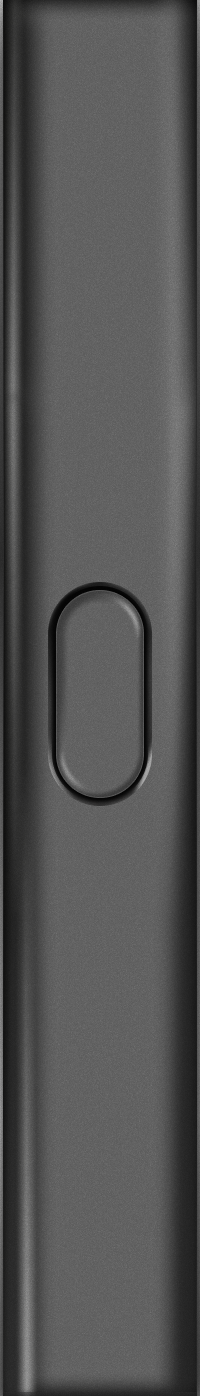
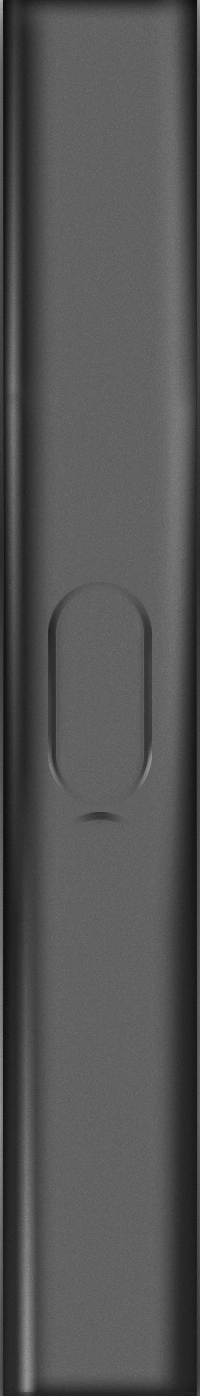
fix(settings): 修复 One-Tap 底图残余变形按键，调整手势仅滑动内部图标保持物理按键固定

Changed region(s): [[0.24, 0.4004, 0.75, 0.5852]]

diff --git a/src/components/apps/settings/SettingsOneTap.vue b/src/components/apps/settings/SettingsOneTap.vue
@@ -187,6 +187,9 @@ let startClientY = 0
 let isHorizontalDrag = false
 
 function onPointerDown(e) {
+  try {
+    e.currentTarget.setPointerCapture(e.pointerId)
+  } catch {}
   startClientX = e.clientX
   startClientY = e.clientY
   isDragging.value = true
@@ -200,9 +203,9 @@ function onPointerMove(e) {
   const dy = e.clientY - startClientY
 
   if (!isHorizontalDrag) {
-    if (Math.abs(dx) > 6 && Math.abs(dx) > Math.abs(dy)) {
+    if (Math.abs(dx) > 4 && Math.abs(dx) > Math.abs(dy)) {
       isHorizontalDrag = true
-    } else if (Math.abs(dy) > 10) {
+    } else if (Math.abs(dy) > 12) {
       isDragging.value = false
       return
     }
@@ -214,7 +217,7 @@ function onPointerMove(e) {
       (currentIndex.value === 0 && dx > 0) ||
       (currentIndex.value === modes.length - 1 && dx < 0)
     ) {
-      dragX.value = dx * 0.28
+      dragX.value = dx * 0.25
     } else {
       dragX.value = dx
     }
@@ -224,16 +227,17 @@ function onPointerMove(e) {
 function onPointerUp(e) {
   if (!isDragging.value) return
   isDragging.value = false
+  try {
+    e.currentTarget.releasePointerCapture(e.pointerId)
+  } catch {}
 
-  const dx = dragX.value
+  const finalDx = dragX.value || (isHorizontalDrag ? e.clientX - startClientX : 0)
   dragX.value = 0
 
-  if (Math.abs(dx) > 42) {
-    if (dx > 0 && currentIndex.value > 0) {
-      currentIndex.value--
-    } else if (dx < 0 && currentIndex.value < modes.length - 1) {
-      currentIndex.value++
-    }
+  if (finalDx > 28 && currentIndex.value > 0) {
+    currentIndex.value--
+  } else if (finalDx < -28 && currentIndex.value < modes.length - 1) {
+    currentIndex.value++
   }
 }
 
@@ -289,6 +293,10 @@ defineExpose({ back })
         class="flank-icon-btn left-flank"
         :class="{ hidden: !prevMode }"
         aria-label="上一项"
+        :style="{
+          transform: `translateY(-50%) translateX(${dragX * 0.45}px)`,
+          transition: isDragging ? 'none' : 'transform 0.32s cubic-bezier(0.22, 1, 0.36, 1), opacity 0.25s ease'
+        }"
         @click.stop="goToPrev"
       >
         <img
@@ -309,21 +317,15 @@ defineExpose({ back })
           draggable="false"
         />
 
-        <!-- 药丸按键发光与实体按键组（跟随拖拽平滑平移） -->
-        <div
-          class="button-capsule-wrap button-cavity"
-          :style="{
-            transform: `translate(calc(-50% + ${dragX}px), -50%)`,
-            transition: isDragging ? 'none' : 'transform 0.36s cubic-bezier(0.22, 1, 0.36, 1)'
-          }"
-        >
-          <!-- 径向光晕溢出 -->
+        <!-- 药丸按键发光与实体按键组（物理按键完全固定在机身中央，绝不位移） -->
+        <div class="button-capsule-wrap button-cavity">
+          <!-- 径向光晕溢出（固定在按键背后） -->
           <div
             class="capsule-glow"
             :style="{ background: currentMode.glowColor }"
           ></div>
 
-          <!-- 3D 实体按键跑道药丸 -->
+          <!-- 3D 实体按键跑道药丸（固定背景，不随拖拽跑动） -->
           <div
             class="capsule-button active-capsule-button"
             :style="{ background: currentMode.buttonBg }"
@@ -331,13 +333,49 @@ defineExpose({ back })
             <!-- 按键内层凸面微高光 -->
             <div class="capsule-specular"></div>
 
-            <!-- 图标呈现 -->
-            <img
-              :src="currentMode.icon"
-              class="capsule-icon-img"
-              alt=""
-              draggable="false"
-            />
+            <!-- 图标滑动轨道（仅图标在物理键帽内平滑跟手滑动） -->
+            <div class="capsule-icons-viewport">
+              <!-- 当前中心图标 -->
+              <img
+                :src="currentMode.icon"
+                class="capsule-icon-img center-icon"
+                :style="{
+                  transform: `translateX(${dragX}px)`,
+                  opacity: Math.max(0.15, 1 - Math.abs(dragX) / 80),
+                  transition: isDragging ? 'none' : 'transform 0.32s cubic-bezier(0.22, 1, 0.36, 1), opacity 0.32s ease'
+                }"
+                alt=""
+                draggable="false"
+              />
+
+              <!-- 滑动时从右侧滑入的下一个图标 -->
+              <img
+                v-if="nextMode && dragX < 0"
+                :src="nextMode.icon"
+                class="capsule-icon-img incoming-icon"
+                :style="{
+                  transform: `translateX(${110 + dragX}px)`,
+                  opacity: Math.min(1, Math.abs(dragX) / 80),
+                  transition: isDragging ? 'none' : 'transform 0.32s cubic-bezier(0.22, 1, 0.36, 1), opacity 0.32s ease'
+                }"
+                alt=""
+                draggable="false"
+              />
+
+              <!-- 滑动时从左侧滑入的上一个图标 -->
+              <img
+                v-if="prevMode && dragX > 0"
+                :src="prevMode.icon"
+                class="capsule-icon-img incoming-icon"
+                :style="{
+                  transform: `translateX(${-110 + dragX}px)`,
+                  opacity: Math.min(1, Math.abs(dragX) / 80),
+                  transition: isDragging ? 'none' : 'transform 0.32s cubic-bezier(0.22, 1, 0.36, 1), opacity 0.32s ease'
+                }"
+                alt=""
+                draggable="false"
+              />
+            </div>
           </div>
         </div>
       </div>
@@ -347,6 +385,10 @@ defineExpose({ back })
         class="flank-icon-btn right-flank"
         :class="{ hidden: !nextMode }"
         aria-label="下一项"
+        :style="{
+          transform: `translateY(-50%) translateX(${dragX * 0.45}px)`,
+          transition: isDragging ? 'none' : 'transform 0.32s cubic-bezier(0.22, 1, 0.36, 1), opacity 0.25s ease'
+        }"
         @click.stop="goToNext"
       >
         <img
@@ -550,11 +592,12 @@ defineExpose({ back })
   display: block;
 }
 
-/* 实体药丸按键容器：精确对齐底图凹槽几何中心 (Y ≈ 49.6%) */
+/* 实体药丸按键容器：精确对齐底图凹槽几何中心 (Y ≈ 49.6%)，固定居中绝不位移 */
 .button-capsule-wrap {
   position: absolute;
   left: 50%;
   top: 49.6%;
+  transform: translate(-50%, -50%);
   width: 110px;
   height: 240px;
   display: flex;
@@ -571,10 +614,10 @@ defineExpose({ back })
   filter: blur(32px);
   opacity: 0.85;
   pointer-events: none;
-  transition: background 0.32s ease;
+  transition: background 0.35s ease;
 }
 
-/* 3D 药丸按键本体 */
+/* 3D 药丸按键本体：固定背景，不随拖拽跑动 */
 .capsule-button {
   width: 108px;
   height: 236px;
@@ -586,8 +629,8 @@ defineExpose({ back })
   box-shadow:
     inset 0 1px 1.5px rgba(255, 255, 255, 0.45),
     inset 0 -1.5px 3px rgba(0, 0, 0, 0.4),
-    0 2px 12px rgba(0, 0, 0, 0.55);
-  transition: background 0.32s ease;
+    0 2px 14px rgba(0, 0, 0, 0.6);
+  transition: background 0.35s ease;
   overflow: hidden;
 }
 
@@ -599,11 +642,26 @@ defineExpose({ back })
   pointer-events: none;
 }
 
+/* 图标滑动视口 */
+.capsule-icons-viewport {
+  position: absolute;
+  inset: 0;
+  display: flex;
+  align-items: center;
+  justify-content: center;
+  overflow: hidden;
+  border-radius: 54px;
+}
+
 .capsule-icon-img {
   width: 50px;
   height: 50px;
   object-fit: contain;
-  position: relative;
+  position: absolute;
+  top: 50%;
+  left: 50%;
+  margin-top: -25px;
+  margin-left: -25px;
   z-index: 2;
   filter: drop-shadow(0 1px 2px rgba(0, 0, 0, 0.25));
   pointer-events: none;
